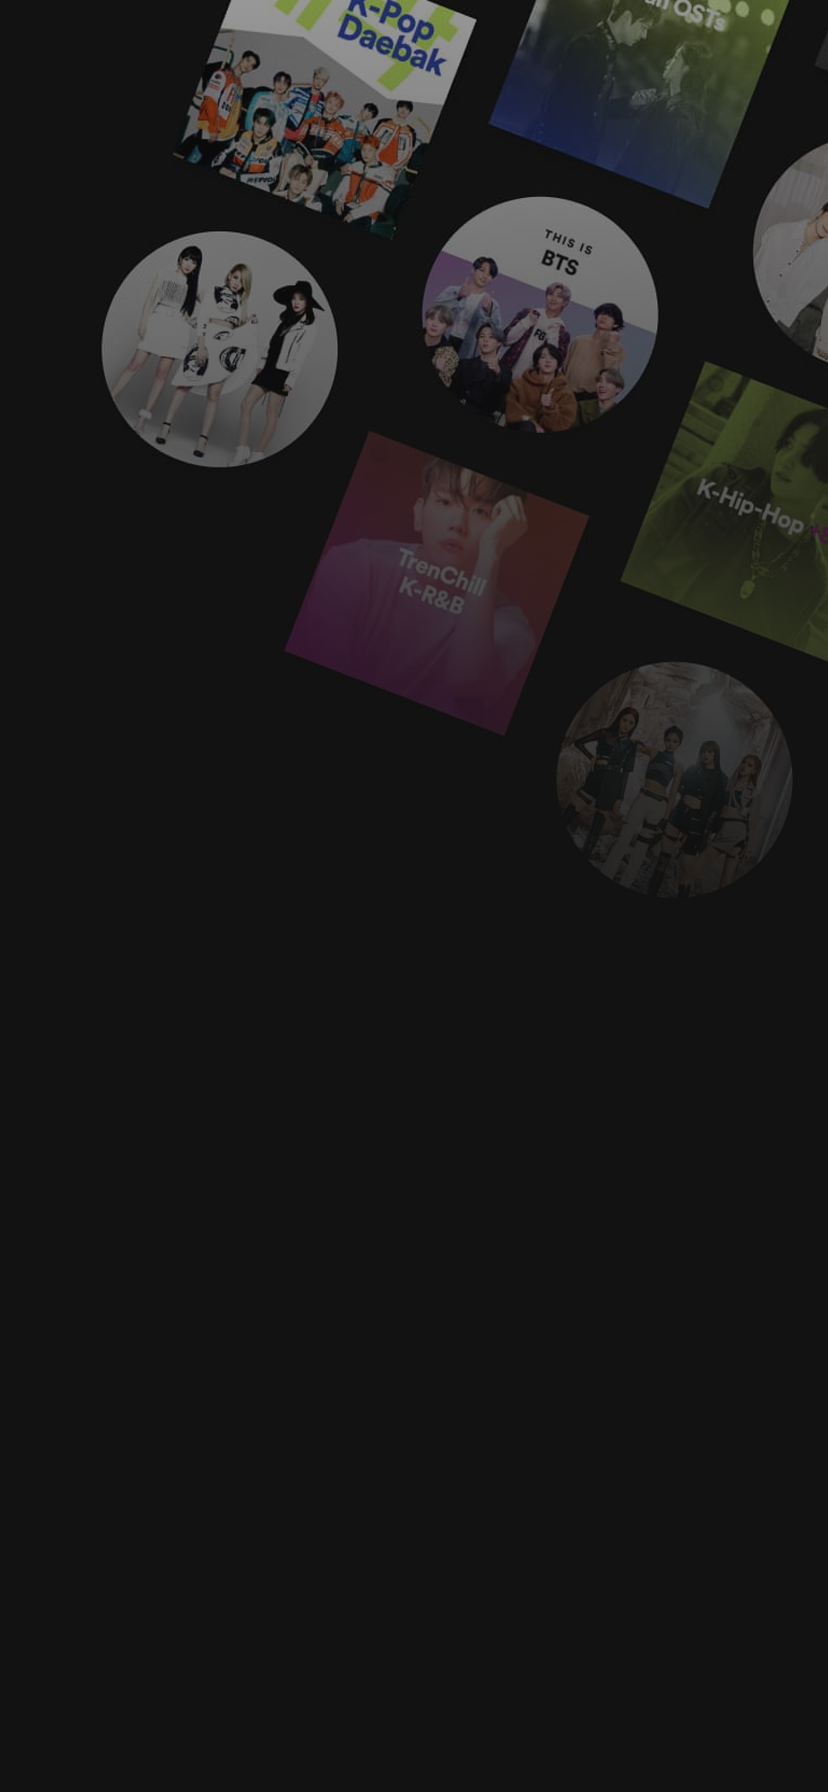
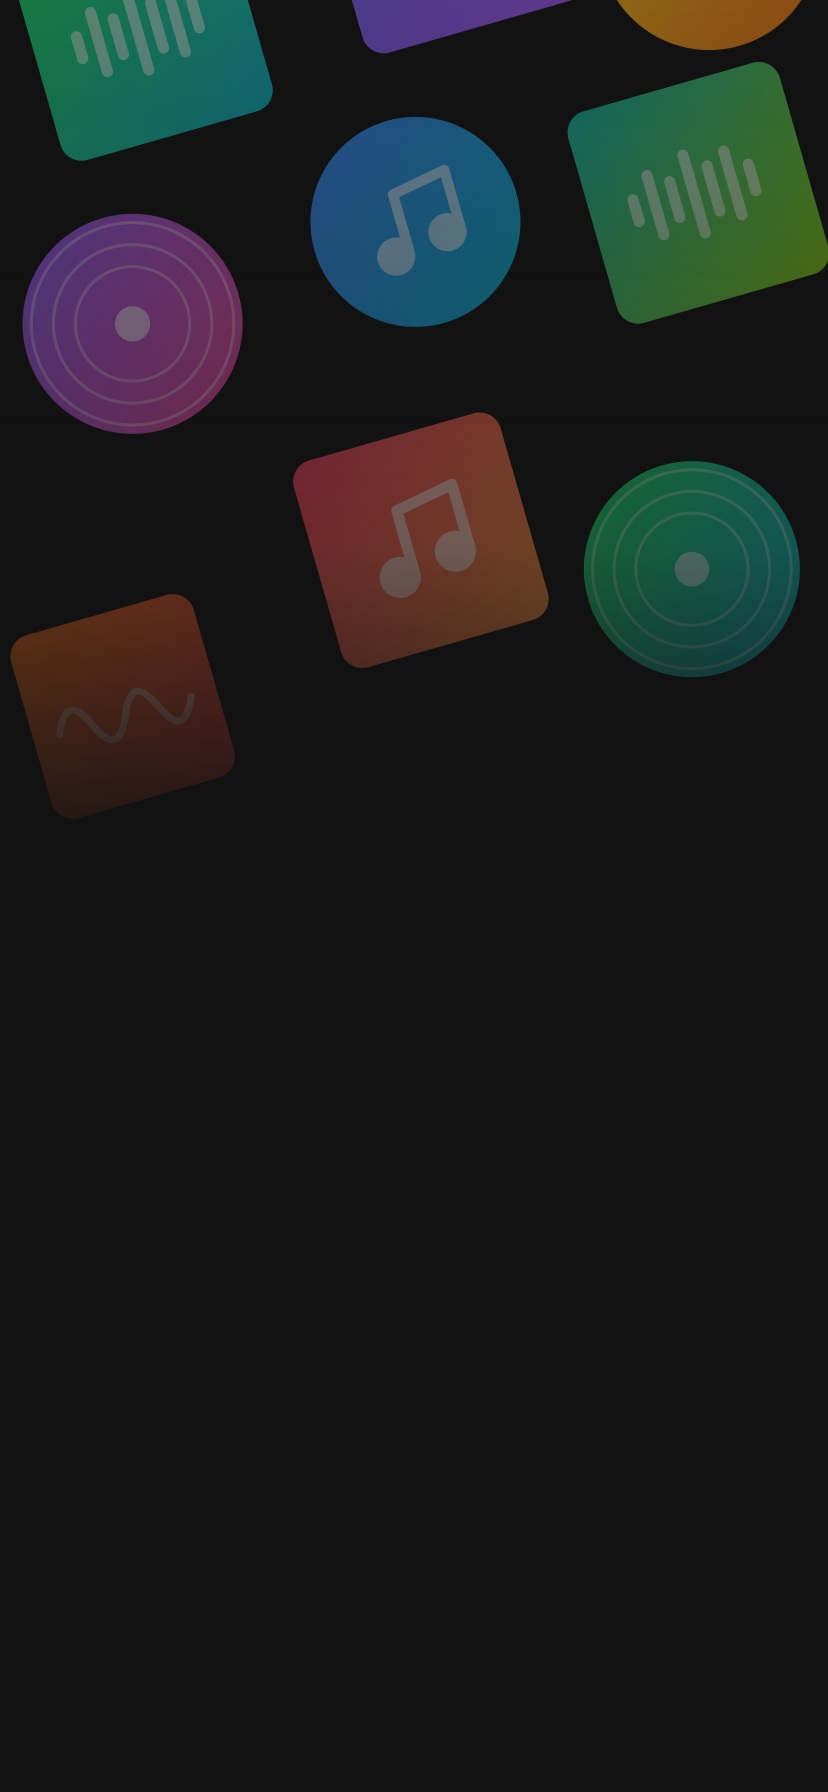
build: Android APK pipeline and Melodix app identity
- Add a GitHub Actions workflow that builds a release APK (Expo prebuild +
  Gradle) on pull requests, on demand, and attaches it to published releases
- Rename the app to Melodix (package com.souxch06.melodix, scheme melodix,
  version 1.1.0) and drop the upstream EAS project id
- Replace the Spotify-branded icon, splash screen, login logo and login
  background (Spotify playlist covers) with original Melodix artwork
- Default config values so the app builds without a .env file; the Spotify
  client secret is no longer part of the app config
- Exclude unused native modules (Skia, dominant-color) from autolinking

Changed region(s): [[0.0302, 0.0, 1.0, 0.4688], [0.0, 0.3125, 0.3019, 0.4688], [0.6643, 0.4062, 0.7246, 0.4375]]

diff --git a/app.config.js b/app.config.js
@@ -1,16 +1,40 @@
+/**
+ * Configuration Expo de Melodix.
+ *
+ * Variable d'environnement facultative (fichier .env ou variable de CI) :
+ * - SPOTIFY_CLIENT_ID : Client ID de ton application Spotify. S'il est absent,
+ *   l'application le demande au premier lancement.
+ *
+ * Aucun secret n'est nécessaire : la connexion utilise le flux OAuth
+ * « Authorization Code + PKCE ».
+ */
+const clientID = process.env.SPOTIFY_CLIENT_ID || process.env.CLIENT_ID || '';
+
 module.exports = {
   expo: {
-    name: 'spotify-clone',
-    slug: 'spotify-clone',
-    version: '1.0.0',
+    name: 'Melodix',
+    slug: 'melodix',
+    version: '1.1.0',
     orientation: 'portrait',
-    icon: './assets/images/logo.png',
-    scheme: 'acme',
+    icon: './assets/images/icon.png',
+    scheme: 'melodix',
+    userInterfaceStyle: 'dark',
     plugins: ['expo-router'],
     splash: {
       image: './assets/images/splash.png',
       resizeMode: 'contain',
-      backgroundColor: '#ffffff',
+      backgroundColor: '#121212',
+    },
+    android: {
+      package: 'com.souxch06.melodix',
+      versionCode: 10100,
+      adaptiveIcon: {
+        foregroundImage: './assets/images/adaptive-icon.png',
+        backgroundImage: './assets/images/adaptive-icon-background.png',
+      },
+    },
+    ios: {
+      bundleIdentifier: 'com.souxch06.melodix',
     },
     web: {
       bundler: 'metro',
@@ -20,18 +44,17 @@ module.exports = {
       typedRoutes: true,
     },
     extra: {
-      clientID: process.env.CLIENT_ID,
-      clientSecret: process.env.CLIENT_SECRET,
-      tokenKey: process.env.TOKEN_KEY,
-      refreshTokenKey: process.env.REFRESH_TOKEN_KEY,
-      expirationKey: process.env.EXPIRATION_KEY,
-      authorizationEndpoint: process.env.AUTHORIZATION_ENDPOINT,
-      tokenEndpoint: process.env.TOKEN_ENDPOINT,
+      clientID,
+      tokenKey: process.env.TOKEN_KEY || 'melodix.token',
+      refreshTokenKey: process.env.REFRESH_TOKEN_KEY || 'melodix.refresh-token',
+      expirationKey: process.env.EXPIRATION_KEY || 'melodix.token-expiration',
+      authorizationEndpoint:
+        process.env.AUTHORIZATION_ENDPOINT ||
+        'https://accounts.spotify.com/authorize',
+      tokenEndpoint:
+        process.env.TOKEN_ENDPOINT || 'https://accounts.spotify.com/api/token',
       router: {
         origin: false,
-      },
-      eas: {
-        projectId: '33b0281a-b127-47fe-ab16-e94caf272493',
       },
     },
   },

diff --git a/react-native.config.js b/react-native.config.js
@@ -1,0 +1,8 @@
+// Modules natifs présents dans package.json mais inutilisés par l'application :
+// ils sont exclus de la compilation native pour alléger l'APK et accélérer le build.
+module.exports = {
+  dependencies: {
+    '@shopify/react-native-skia': { platforms: { android: null, ios: null } },
+    'react-native-dominant-color': { platforms: { android: null, ios: null } },
+  },
+};
